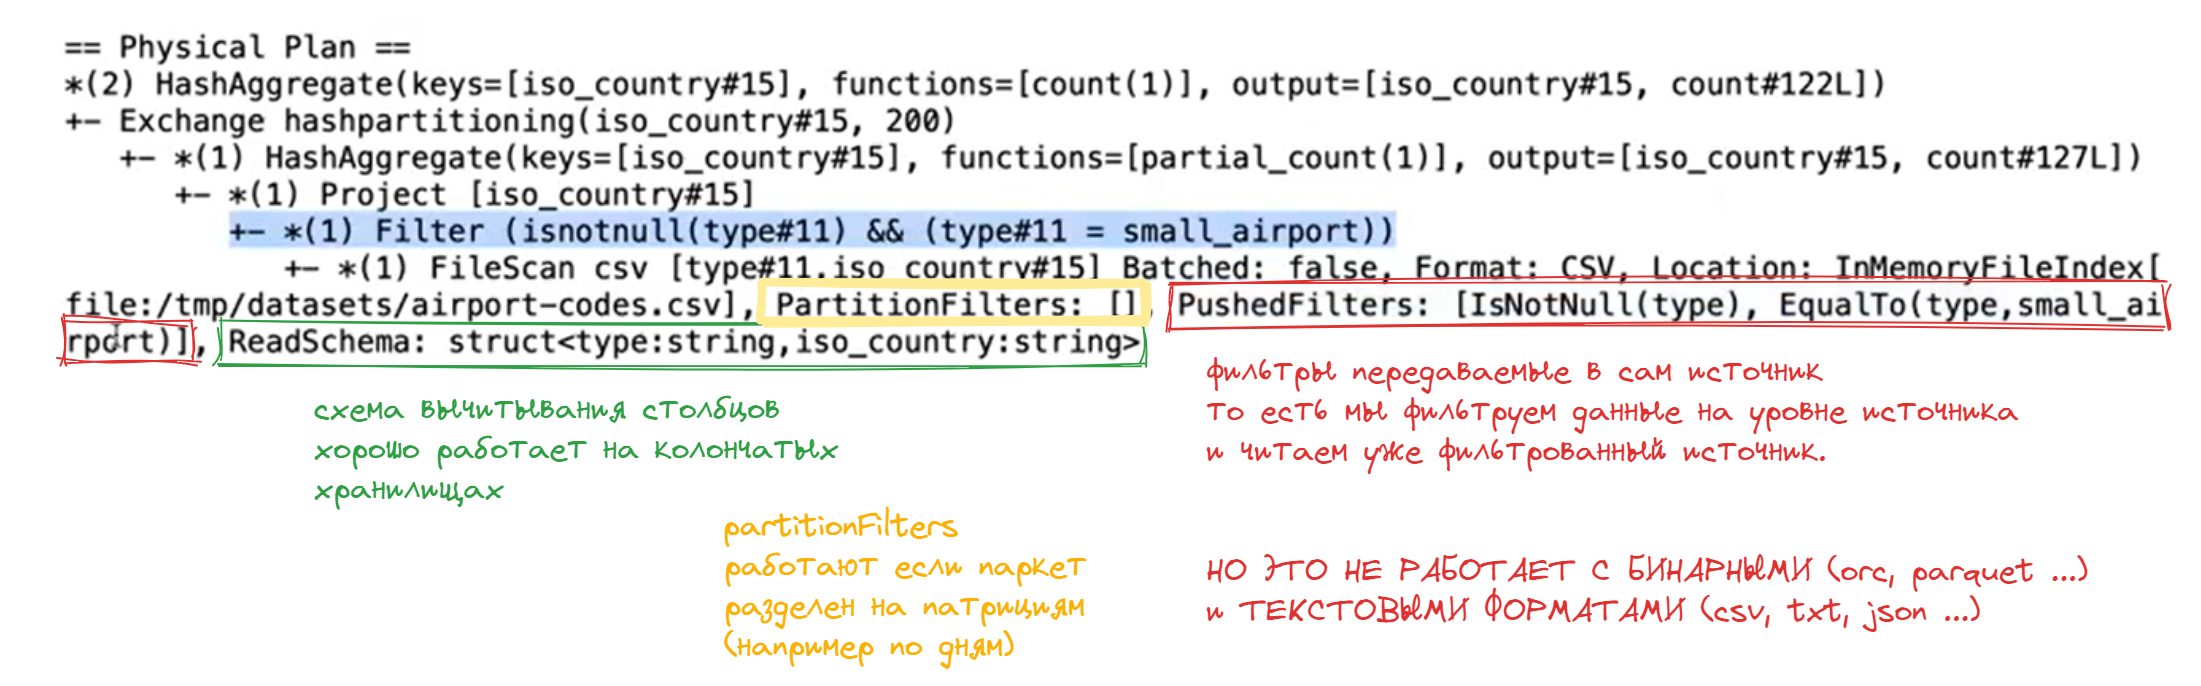
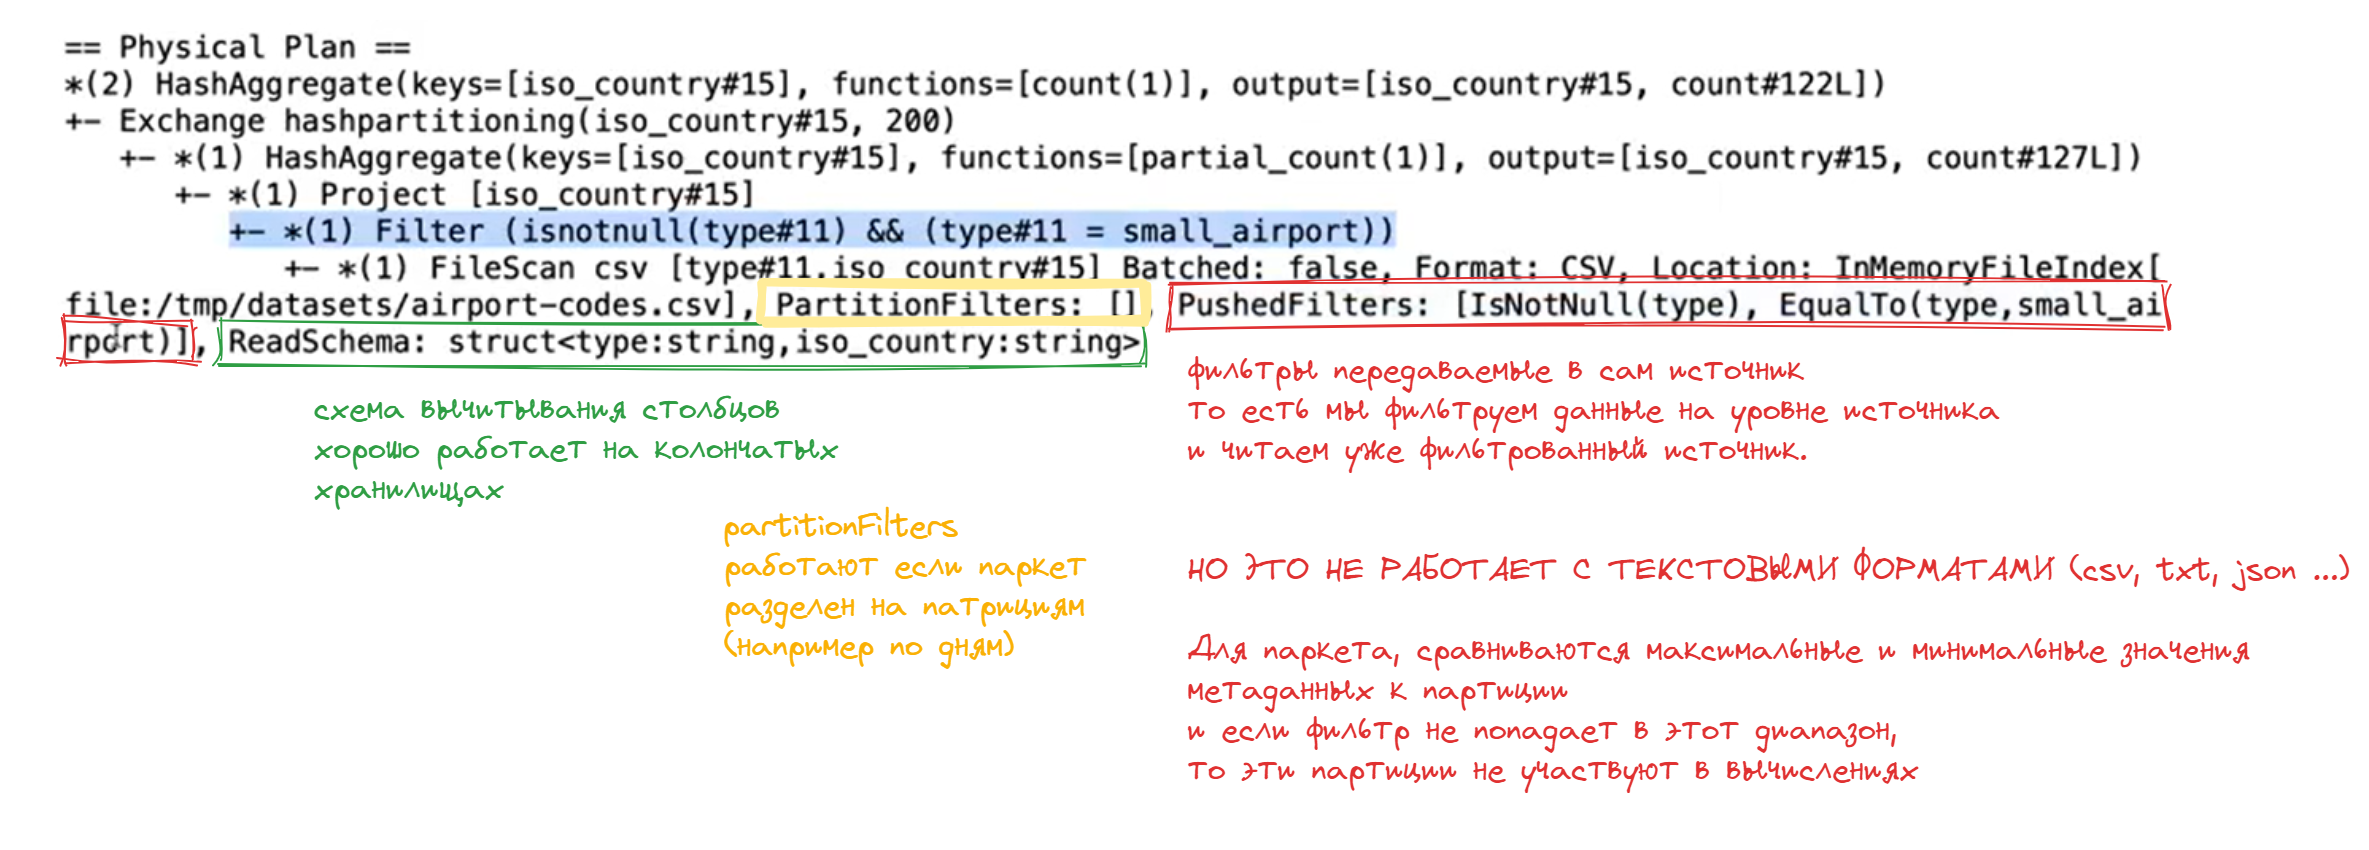
update

diff --git a/scala_and_spark_by_new_pro_lab/5. spark dataframes 2.md b/scala_and_spark_by_new_pro_lab/5. spark dataframes 2.md
@@ -100,5 +100,49 @@ spark.time {
     joined.count
 }
 ```
+т.к. сначала идет пепартиционирование подходящее под оба варианта обработки, мы сокращяем количество стейджей
 
-1:36
+## Управление схемой данных
+
+В DF API каждая колонка имеет свой тип. Он может быть:
+- скаляром - `StringType`, `IntegetType` и т.д.
+- массивом - `ArrayType(T)`
+- словарем - `MapType(K, V)`
+- структурой - `StructType()`
+
+DF целиком же имеет схему описанную с помощью класса **StructType**
+
+
+Чтение файлов с указанием схемы будет более быстрое т.к. не потребует пробегаться по файлам
+![alt text](./picture/schema_read.png)
+
+## Оптимизатор запросов Catalyst
+
+Catalyst - выполняет оптимизацию запросов с целью ускорения их выполнения.
+Соновные методы методы:
+- **Column projection**  
+  Данный механизм позволяет избегать вычитывания ненужных колонок при работе с источниками. **Работает с parquet, orc и колнчатыми источниками**
+  ![alt text](./picture/сatalyst_сolumn_projection.png)
+  При указании в **select** или (groupBy) вычитывает только используемые колонки (это видно по двум разным параметрам **ReadSchema** на скриншоте)
+
+- **Partition pruning**  
+  Позволяет избегать не нужных партиций (если источник партицирован по какой либо колонке и сохранен так что спар ее понимает).
+  ![alt text](./picture/catalyst_partition_pruning.png)
+  При фильтрации по колонке которая является основой для **партиционирования источника** вычитывает только папки с указанными партициями
+
+- **Predicate pushdown**  
+  Данный механизм позволяет "протолкнуть" условия фильтрации данных на уровень dataSource. В частности для паркета, сравниваются **максимальные и минимальные значения в партициях** и если фильтр не попадает в этот диапазон, то эти партиции не участвуют в вычислениях.
+  Также отлично работает с базами данных
+
+  ![alt text](./picture/catalyst_predicate_pushdown.png)
+
+
+- **Constant folding**  
+  Данный механизм убирает `cast` если вы кастити в тот же тип данных что и колонка
+
+- **Constnat folding**
+  Сокращяет количество констант, используемых в физическом плане.
+  Если вы пропишите некое выражение которое гарантированно даст один результат (типа `lit(3) > lit(1)` всегда даст `true`) то оптимизатор сразу пропишет в план `true` вместо выражения
+
+- **Combine filters**
+  Данный механизм объединяет фильтры. То есть при наличии нескольких фильтров оптимизатор объединяет их в один.
